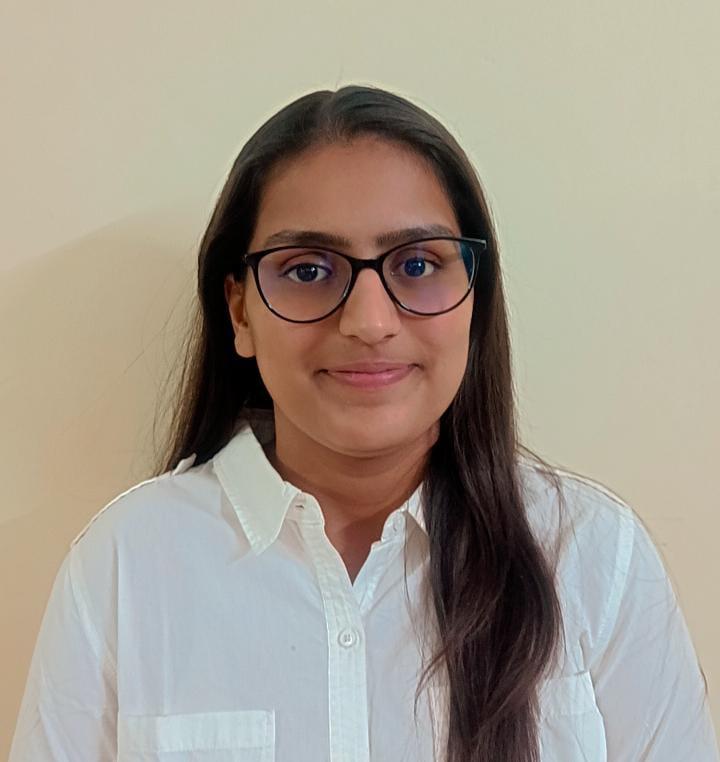
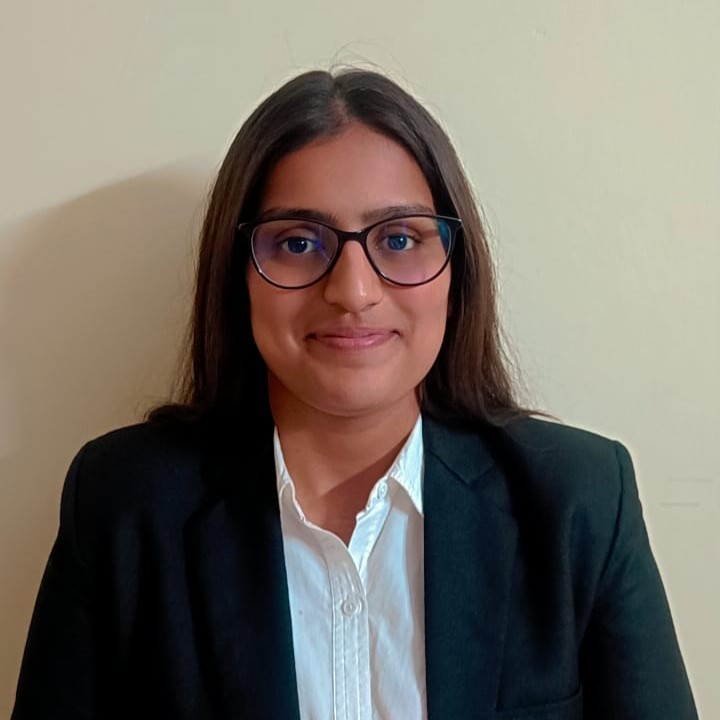
fix:img change

diff --git a/src/components/home/Sponsors.tsx b/src/components/home/Sponsors.tsx
@@ -17,7 +17,7 @@ const Sponsors = () => {
     Autoplay({ delay: 4000, stopOnInteraction: true }),
   );
   return (
-    <section className="flex w-full flex-col items-center md:px-36 py-36 font-primary text-white">
+    <section className="flex w-full flex-col items-center px-12 md:px-36 py-36 font-primary text-white">
       <div className="p-5 text-center">
         <h2 className="text-headings pb-5 text-5xl font-bold">Our Sponsors</h2>
         <p>Announcing Soon...</p>

diff --git a/src/components/home/Community.tsx b/src/components/home/Community.tsx
@@ -17,7 +17,7 @@ const Community = () => {
     Autoplay({ delay: 4000, stopOnInteraction: true }),
   );
   return (
-    <section className="flex w-full flex-col items-center md:px-36 font-primary text-white">
+    <section className="flex w-full flex-col items-center px-12 md:px-36 font-primary text-white">
       <div className="p-5 text-center">
         <h2 className="text-headings pb-5 text-5xl font-bold">Our Community Partners</h2>
         <p>Announcing Soon...</p>

diff --git a/src/constants/team.ts b/src/constants/team.ts
@@ -168,7 +168,7 @@ export const team: Iteam[] = [
   },
   {
     image:
-      "https://raw.githubusercontent.com/dipesh2508/ieee-delhi-hackquest/main/public/team/Arushi%20Gupta.png",
+      "/team/Arushi Gupta.jpg",
     position: "WIE Coordinator",
     Name: "Arushi Gupta",
     link: "https://www.linkedin.com/in/arushi-gupta-443896223?utm_source=share&utm_campaign=share_via&utm_content=profile&utm_medium=ios_app",
